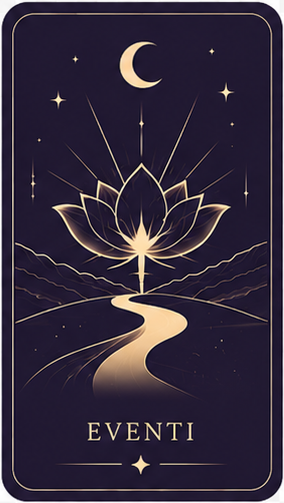
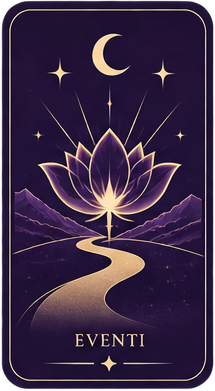
Rinnova le carte meditazione ed eventi, rimuove ritiri, sistema il layout desktop
Sostituisce l'artwork di "Meditazione" (montagna e luna sul lago) ed
"Eventi" (loto), rimuove del tutto la carta "Ritiri" (immagini, dato in
data.ts, voce di menu derivata). Nella disposizione desktop a due colonne
le carte partivano troppo in alto (a ridosso dell'header) ed erano
sfalsate a scacchiera: ora le righe sono allineate, con più margine sotto
il banner e più vicine al centro/figura, restando comunque leggibili
sopra il titolo dell'hero anche alle larghezze minime del layout (lo
scarto orizzontale si adatta alla viewport). Le carte sono anche
leggermente più piccole per ridurre la sovrapposizione verticale tra
righe.

diff --git a/src/app/cover/FloatingCards.tsx b/src/app/cover/FloatingCards.tsx
@@ -1,47 +1,87 @@
 "use client";
 
+import { useEffect, useState } from "react";
 import { CARD_SECTIONS } from "./data";
 import { TarotCard } from "./TarotCard";
 
 type CardPose = { left: number; top: number; rot: number; scale: number };
+
+// Larghezza della finestra, per adattare lo scarto orizzontale delle colonne
+// (vedi columnLeftForWidth) — SSR e primo render assumono desktop "largo",
+// corretto subito dopo il mount.
+function useViewportWidth(defaultWidth = 1280) {
+  const [width, setWidth] = useState(defaultWidth);
+  useEffect(() => {
+    function update() {
+      setWidth(window.innerWidth);
+    }
+    update();
+    window.addEventListener("resize", update);
+    return () => window.removeEventListener("resize", update);
+  }, []);
+  return width;
+}
 
 // Tre tappe, guidate dallo scroll (vedi useScrollProgress in hooks.ts):
 // 1. COLUMNS — due colonne ai lati della figura, stato iniziale.
 // 2. LINE — le carte si raccolgono su un'unica riga orizzontale, ordinata.
 // 3. CIRCLE — si dispongono a cerchio; la prima carta (Lezioni) resta al
 //    centro, più grande, come carta "in rilievo".
-// Colonna sinistra (indici pari 0/2/4/6, 4 carte) e colonna destra
-// (indici dispari 1/3/5, 3 carte), a scacchiera intorno alla figura centrale.
-const COLUMN_POSITIONS: CardPose[] = [
-  { left: 23, top: 14, rot: 0, scale: 1 },
-  { left: 77, top: 22, rot: 0, scale: 1 },
-  { left: 19, top: 38, rot: 0, scale: 1 },
-  { left: 81, top: 50, rot: 0, scale: 1 },
-  { left: 19, top: 62, rot: 0, scale: 1 },
-  { left: 77, top: 78, rot: 0, scale: 1 },
-  { left: 23, top: 86, rot: 0, scale: 1 },
+// Colonna sinistra (indici pari 0/2/4) e colonna destra (indici dispari
+// 1/3/5), 3 carte ciascuna, allineate a coppie sulla stessa riga, a fianco
+// della figura centrale. Il top parte da 28% (non più 14%) per lasciare
+// respiro sotto il banner.
+const COLUMN_TOPS: { side: "L" | "R"; top: number }[] = [
+  { side: "L", top: 28 },
+  { side: "R", top: 28 },
+  { side: "L", top: 53 },
+  { side: "R", top: 53 },
+  { side: "L", top: 78 },
+  { side: "R", top: 78 },
 ];
+
+// Quanto sono vicine al centro le colonne dipende dalla larghezza: al limite
+// minimo del layout a due colonne (860px) il titolo dell'hero è relativamente
+// più largo e le carte devono restare più esterne per non coprirlo; su schermi
+// più larghi il titolo pesa meno e le carte possono avvicinarsi alla figura.
+const COLUMN_MIN_VW = 860;
+const COLUMN_MAX_VW = 1400;
+const COLUMN_LEFT_MIN = 20;
+const COLUMN_LEFT_MAX = 27;
+
+function columnLeftForWidth(vw: number) {
+  const t = Math.min(1, Math.max(0, (vw - COLUMN_MIN_VW) / (COLUMN_MAX_VW - COLUMN_MIN_VW)));
+  return COLUMN_LEFT_MIN + (COLUMN_LEFT_MAX - COLUMN_LEFT_MIN) * t;
+}
+
+function buildColumnPositions(vw: number): CardPose[] {
+  const colLeft = columnLeftForWidth(vw);
+  return COLUMN_TOPS.map(({ side, top }) => ({
+    left: side === "L" ? colLeft : 100 - colLeft,
+    top,
+    rot: 0,
+    scale: 1,
+  }));
+}
 
 const LINE_POSITIONS: CardPose[] = [
   { left: 13, top: 58, rot: 0, scale: 1.1 },
-  { left: 25, top: 58, rot: 0, scale: 1.1 },
-  { left: 37, top: 58, rot: 0, scale: 1.1 },
-  { left: 50, top: 58, rot: 0, scale: 1.1 },
-  { left: 63, top: 58, rot: 0, scale: 1.1 },
-  { left: 75, top: 58, rot: 0, scale: 1.1 },
+  { left: 27.8, top: 58, rot: 0, scale: 1.1 },
+  { left: 42.6, top: 58, rot: 0, scale: 1.1 },
+  { left: 57.4, top: 58, rot: 0, scale: 1.1 },
+  { left: 72.2, top: 58, rot: 0, scale: 1.1 },
   { left: 87, top: 58, rot: 0, scale: 1.1 },
 ];
 
-// Esagono intorno al centro (50%, 52%) per le carte 1..6, più la carta 0
+// Pentagono intorno al centro (50%, 52%) per le carte 1..5, più la carta 0
 // ferma al centro, in rilievo.
 const CIRCLE_POSITIONS: CardPose[] = [
   { left: 50, top: 52, rot: 0, scale: 1.65 },
   { left: 50, top: 29, rot: -4, scale: 1.05 },
-  { left: 72, top: 40.5, rot: 4, scale: 1.05 },
-  { left: 72, top: 63.5, rot: 3, scale: 1.05 },
-  { left: 50, top: 75, rot: -3, scale: 1.05 },
-  { left: 28, top: 63.5, rot: -4, scale: 1.05 },
-  { left: 28, top: 40.5, rot: 4, scale: 1.05 },
+  { left: 71, top: 45, rot: 4, scale: 1.05 },
+  { left: 63, top: 71, rot: 3, scale: 1.05 },
+  { left: 37, top: 71, rot: -3, scale: 1.05 },
+  { left: 29, top: 45, rot: 4, scale: 1.05 },
 ];
 
 const T1_START = 0.12;
@@ -59,8 +99,8 @@ function lerpPose(a: CardPose, b: CardPose, t: number): CardPose {
   return { left: lerp(a.left, b.left, t), top: lerp(a.top, b.top, t), rot: lerp(a.rot, b.rot, t), scale: lerp(a.scale, b.scale, t) };
 }
 
-function poseForProgress(i: number, progress: number): CardPose {
-  const col = COLUMN_POSITIONS[i];
+function poseForProgress(i: number, progress: number, columnPositions: CardPose[]): CardPose {
+  const col = columnPositions[i];
   const line = LINE_POSITIONS[i];
   const circle = CIRCLE_POSITIONS[i];
   if (progress <= T1_START) return col;
@@ -81,13 +121,16 @@ export function FloatingCards({
   onSelect: (id: string) => void;
   scrollProgress: number;
 }) {
+  const viewportWidth = useViewportWidth();
+  const columnPositions = buildColumnPositions(viewportWidth);
+
   return (
     <div id="carte" className="cover-cards-anchor">
       {/* Desktop / tablet: carte che partono ai lati, si allineano su una riga
           e poi si dispongono a cerchio, in tre tappe guidate dallo scroll */}
       <div className="cover-cards-ring" aria-hidden={false}>
         {CARD_SECTIONS.map((section, i) => {
-          const pose = poseForProgress(i, scrollProgress);
+          const pose = poseForProgress(i, scrollProgress, columnPositions);
           const isCenterFeatured = i === 0 && scrollProgress > T2_START;
           return (
             <div

diff --git a/src/app/cover/data.ts b/src/app/cover/data.ts
@@ -3,7 +3,6 @@ import {
   ChiSonoIcon,
   LezioniIcon,
   MeditazioneIcon,
-  RitiriIcon,
   CalendarioIcon,
   ContattiIcon,
   EventiIcon,
@@ -46,19 +45,19 @@ export const CARD_SECTIONS: CardSection[] = [
     imageHeight: 391,
     imageLightWidth: 289,
     imageLightHeight: 519,
-    intro: "Lezioni di yoga per tutti i livelli, in presenza e online.",
+    intro: "Lezioni di yoga in piccoli gruppi e individuali.",
     paragraphs: [
-      "Fluide o dinamiche, per rafforzare o per ascoltare: ogni pratica è pensata per ritrovare te stessa, un respiro alla volta.",
+      "Pratiche ispirate al Vinyasa, tra movimento, forza e consapevolezza.",
+      "Ogni classe ha un focus diverso, per costruire la pratica nel tempo ed esplorarne aspetti e possibilità differenti.",
     ],
-    bullets: ["Yoga Foundation", "Yoga Flow", "Slow Flow", "Ashtanga", "Lezioni individuali", "Piccoli gruppi"],
-    cta: { label: "Scopri le lezioni", href: "/calendario" },
+    cta: { label: "Scopri le classi", href: "/classi" },
   },
   {
     id: "chi-sono",
     order: 1,
     label: "Chi Sono",
-    title: "Chi sono",
-    kicker: "La mia storia",
+    title: "Ciao, sono Fabrizia",
+    kicker: "Chi sono",
     Icon: ChiSonoIcon,
     image: "/cards/chi_sono.png",
     imageLight: "/cards/chi_sono-light.png",
@@ -66,12 +65,11 @@ export const CARD_SECTIONS: CardSection[] = [
     imageHeight: 388,
     imageLightWidth: 277,
     imageLightHeight: 518,
-    intro: "Mi chiamo Fabrizia.",
+    intro: "Insegno yoga attraverso movimento, forza, respiro e consapevolezza.",
     paragraphs: [
-      "Sono insegnante di yoga certificata e praticante da oltre dieci anni.",
-      "Creo spazi sicuri e accoglienti dove ritrovare equilibrio, ascolto e presenza — attraverso il movimento, il respiro e la pratica.",
+      "La mia pratica nasce dal Vinyasa e incontra lo studio della forza e del movimento, senza perdere ciò che mi ha portata allo yoga più di dieci anni fa: la curiosità per quello che accade dentro, oltre la forma delle asana.",
     ],
-    cta: { label: "La mia storia", href: "#chi-sono" },
+    cta: { label: "La mia storia", href: "/chi-sono" },
   },
   {
     id: "meditazione",
@@ -81,37 +79,15 @@ export const CARD_SECTIONS: CardSection[] = [
     kicker: "Presenza",
     Icon: MeditazioneIcon,
     image: "/cards/meditazione.png",
-    imageLight: "/cards/meditazione-light.png",
-    imageWidth: 295,
-    imageHeight: 503,
-    imageLightWidth: 295,
-    imageLightHeight: 503,
+    imageWidth: 220,
+    imageHeight: 390,
     intro: "Pratiche guidate per rallentare, ascoltare e tornare al centro.",
     paragraphs: ["Meditazioni guidate, mindfulness e incontri a tema per calmare la mente e aprire il cuore. Torna al centro. Sempre."],
     cta: { label: "Scopri la meditazione", href: "/calendario" },
   },
   {
-    id: "ritiri",
-    order: 3,
-    label: "Ritiri",
-    title: "Ritiri",
-    kicker: "Esperienze",
-    Icon: RitiriIcon,
-    image: "/cards/ritiri.png",
-    imageLight: "/cards/ritiri-light.png",
-    imageWidth: 218,
-    imageHeight: 392,
-    imageLightWidth: 287,
-    imageLightHeight: 518,
-    intro: "Esperienze immersive nella natura per ritrovare te stessa.",
-    paragraphs: [
-      "Yoga, natura e condivisione, lontano dal caos quotidiano — per rallentare, respirare e riconnetterti con ciò che conta.",
-    ],
-    cta: { label: "Scopri i ritiri", href: "#contatti" },
-  },
-  {
     id: "calendario",
-    order: 4,
+    order: 3,
     label: "Calendario",
     title: "Calendario",
     kicker: "Prossimi appuntamenti",
@@ -128,7 +104,7 @@ export const CARD_SECTIONS: CardSection[] = [
   },
   {
     id: "contatti",
-    order: 5,
+    order: 4,
     label: "Contatti",
     title: "Contatti",
     kicker: "Scrivimi",
@@ -146,17 +122,14 @@ export const CARD_SECTIONS: CardSection[] = [
   {
     // Testi provvisori: dimmi di cosa si tratta davvero e li aggiorno.
     id: "eventi",
-    order: 6,
+    order: 5,
     label: "Eventi",
     title: "Eventi",
     kicker: "Occasioni speciali",
     Icon: EventiIcon,
     image: "/cards/eventi.png",
-    imageLight: "/cards/eventi-light.png",
-    imageWidth: 284,
-    imageHeight: 503,
-    imageLightWidth: 284,
-    imageLightHeight: 503,
+    imageWidth: 215,
+    imageHeight: 391,
     intro: "Incontri speciali, fuori dal calendario abituale.",
     paragraphs: ["Workshop a tema, eventi stagionali e serate speciali: le occasioni per praticare insieme in modo diverso."],
     cta: { label: "Scopri gli eventi", href: "/calendario" },

diff --git a/src/app/globals.css b/src/app/globals.css
@@ -607,7 +607,7 @@ body {
 .tarot-card {
   position: relative;
   display: block;
-  width: clamp(96px, 8.4vw, 144px);
+  width: clamp(84px, 7vw, 126px);
   background: none;
   border: none;
   padding: 0;
